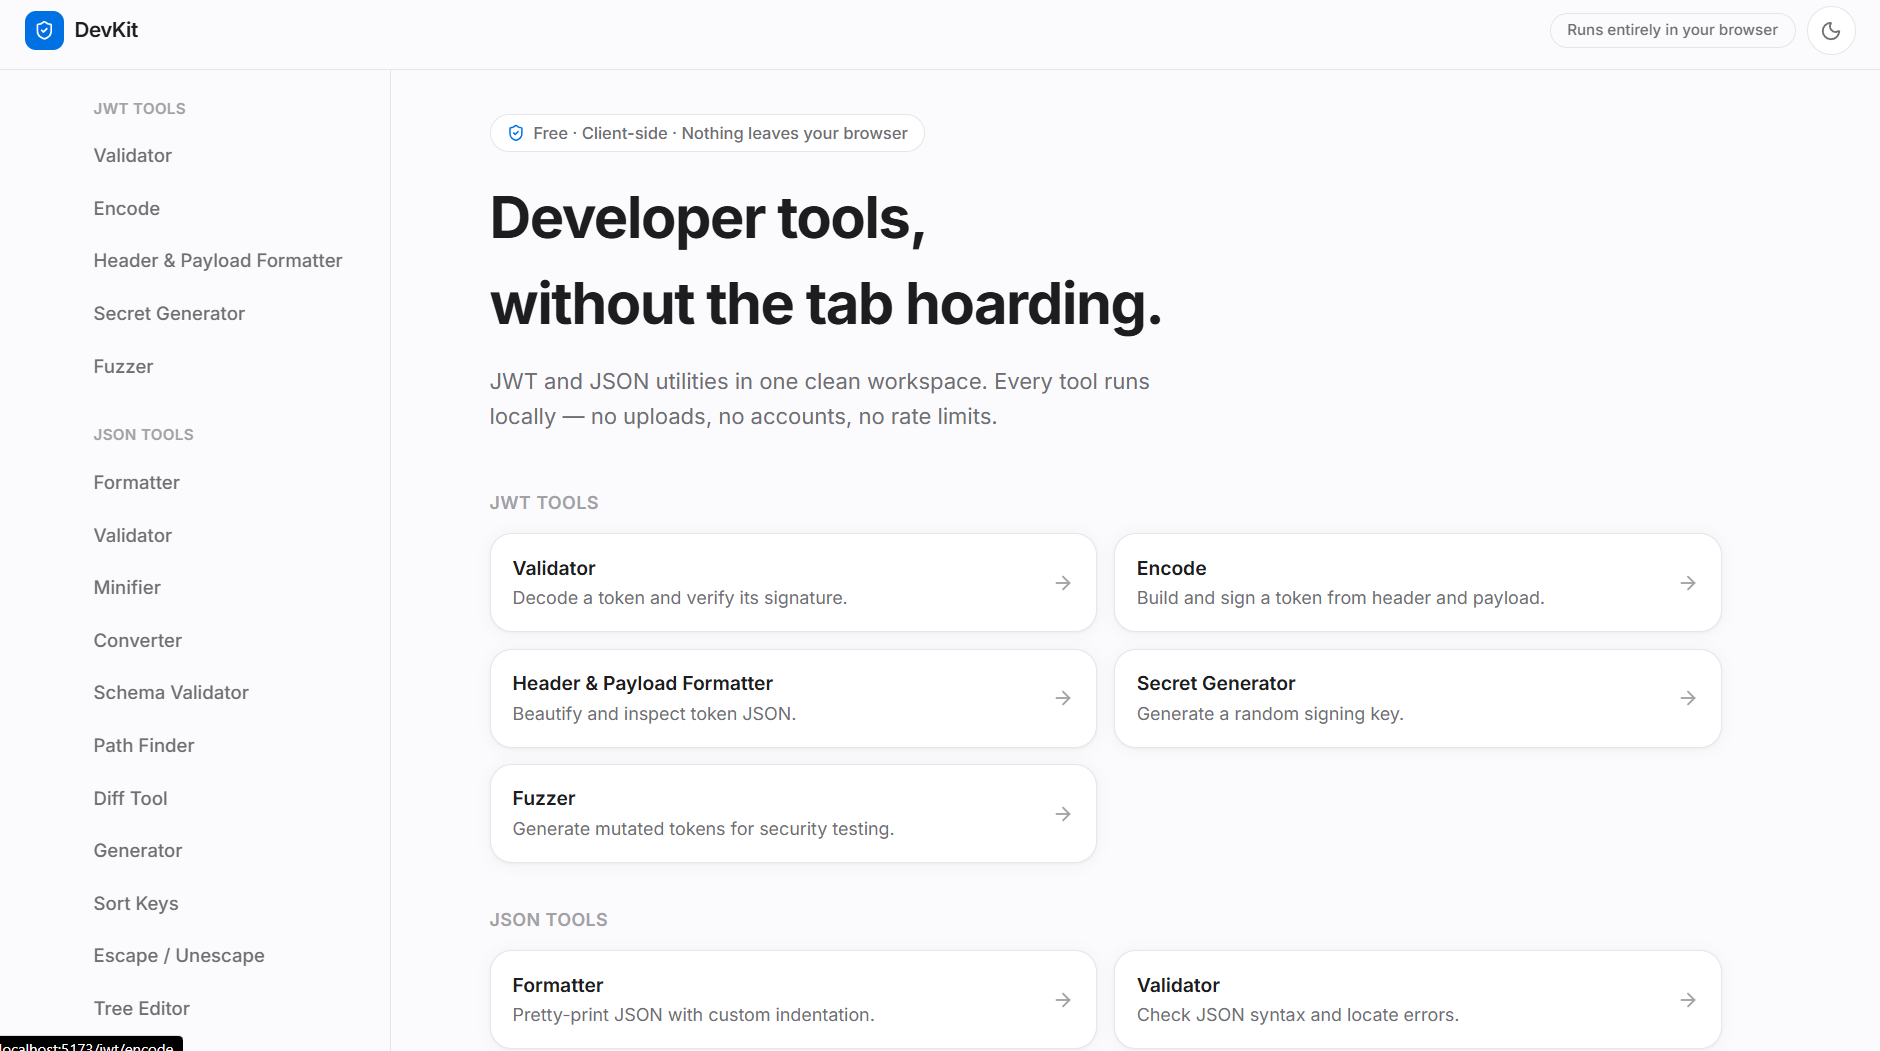
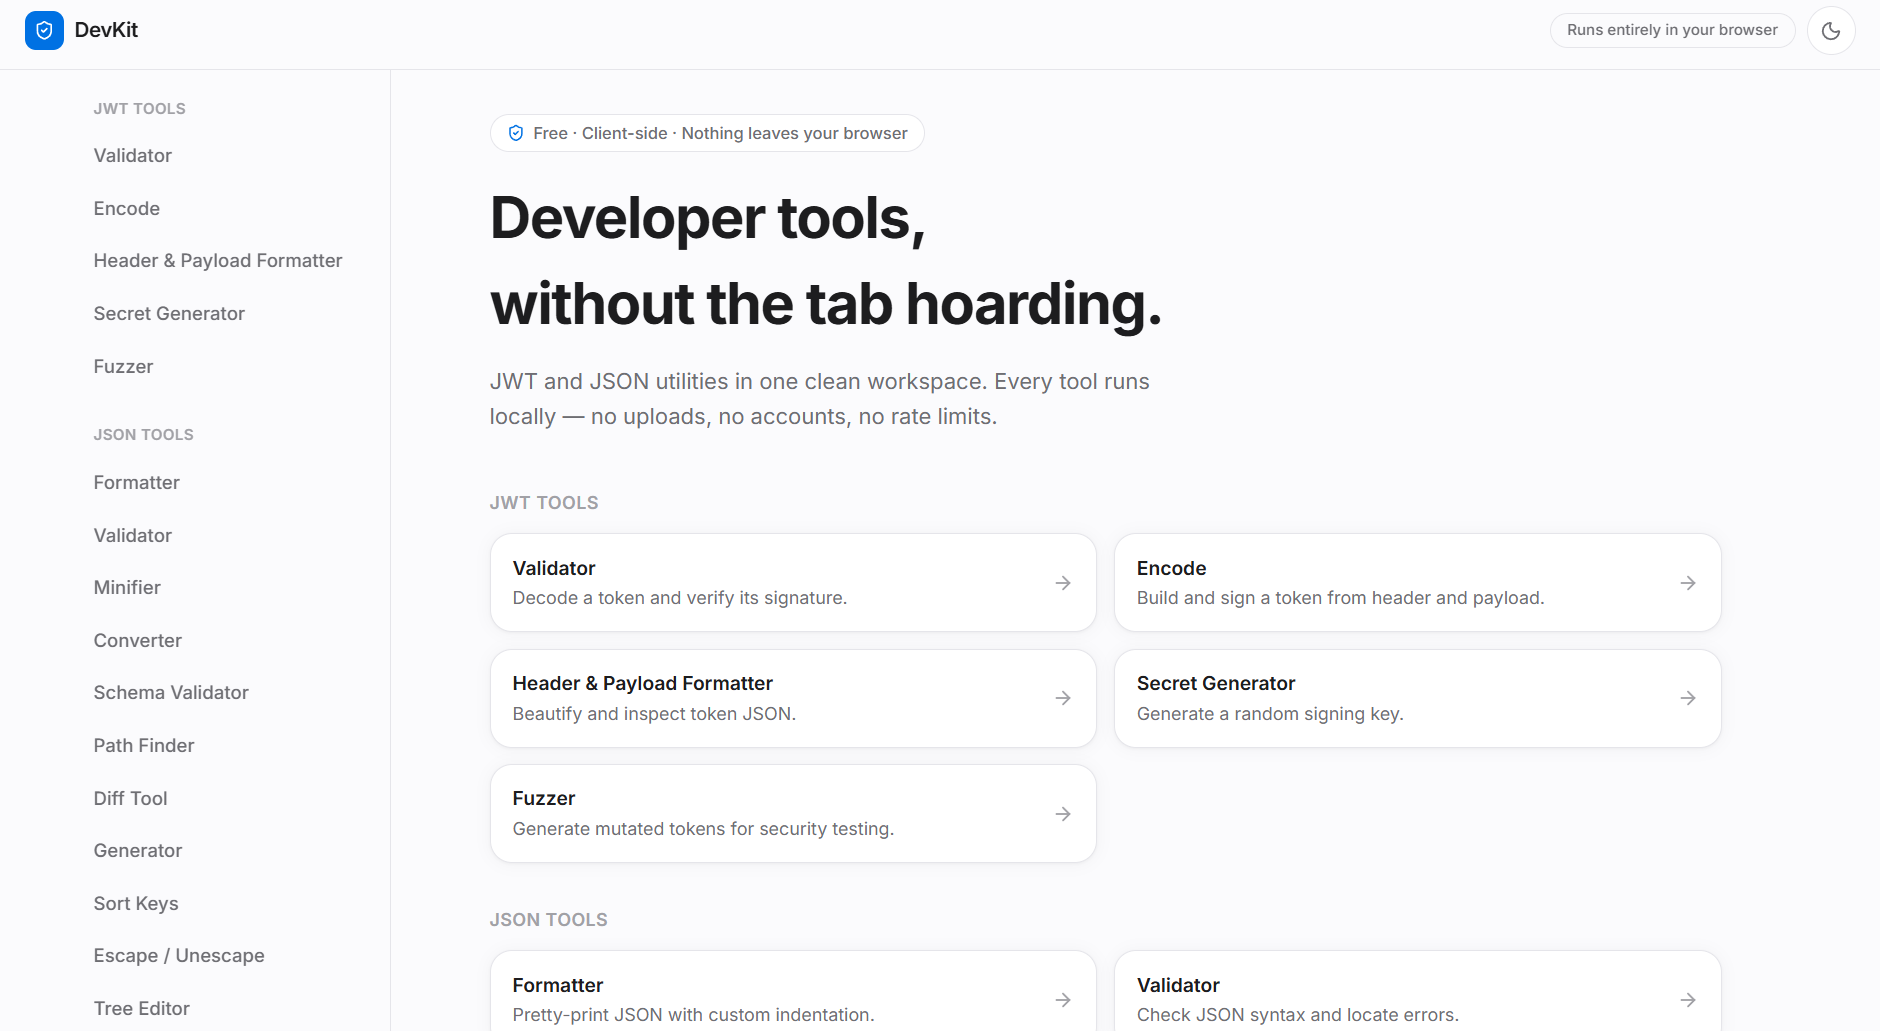
updated readme

diff --git a/README.md b/README.md
@@ -24,6 +24,16 @@ All processing happens locally in your browser, keeping your data private and se
 
 ---
 
+## Privacy
+
+DevKit is designed with a privacy-first approach.
+
+Your data stays inside your browser.
+
+No files, tokens, or JSON data are sent to external servers.
+
+---
+
 ## Features
 
 ### JWT Tools
@@ -75,90 +85,6 @@ All processing happens locally in your browser, keeping your data private and se
 - js-yaml
 - fast-xml-parser
 - PapaParse
-
----
-
-## Project Structure
-
-```
-src/
-│
-├── components/     # Reusable UI components
-├── hooks/          # Custom React hooks
-├── lib/            # Core utilities and logic
-├── routes/         # Application routes
-│
-└── main.tsx
-```
-
----
-
-## Getting Started
-
-### Prerequisites
-
-Make sure you have:
-
-- Node.js installed
-- npm or yarn installed
-
-### Installation
-
-Clone the repository:
-
-```bash
-git clone https://github.com/yourusername/devkit.git
-```
-
-Navigate into the project:
-
-```bash
-cd devkit
-```
-
-Install dependencies:
-
-```bash
-npm install
-```
-
-Run the development server:
-
-```bash
-npm run dev
-```
-
-The application will be available at:
-
-```
-http://localhost:5173
-```
-
----
-
-## Build for Production
-
-Create an optimized production build:
-
-```bash
-npm run build
-```
-
-Preview production build:
-
-```bash
-npm run preview
-```
-
----
-
-## Privacy
-
-DevKit is designed with a privacy-first approach.
-
-Your data stays inside your browser.
-
-No files, tokens, or JSON data are sent to external servers.
 
 ---
 
